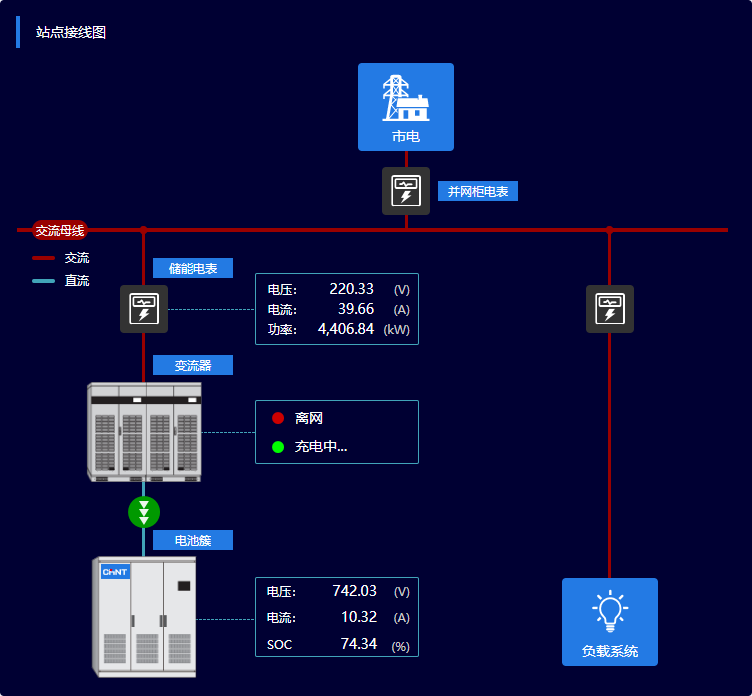
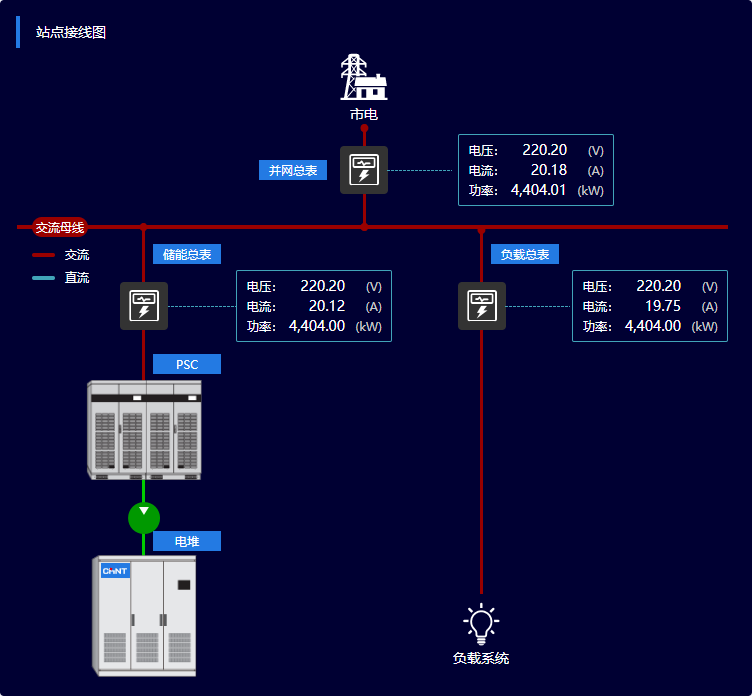
样式调整

diff --git a/src/pages/storage/summary/style.module.less b/src/pages/storage/summary/style.module.less
@@ -46,7 +46,7 @@
             border: 1px solid rgb(215, 215, 215);
             border-radius: 4px;
             .information{
-                margin-top: 26px;
+                margin-top: 16px;
                 display: flex;
                 align-items: center;
                 .siteImg{
@@ -129,8 +129,8 @@
                     justify-content: space-between;
                     flex-direction: column;
                     position: absolute;
-                    left: 255px;
-                    top: 273px;
+                    left: 235px;
+                    top: 270px;
                     padding: 6px 12px;
                     width: 164px;
                     height: 72px;
@@ -167,23 +167,35 @@
                     justify-content: space-between;
                     flex-direction: column;
                     position: absolute;
-                    left: 255px;
-                    top: 400px;
-                    padding: 6px 12px;
+                    right: 130px;
+                    top: 130px;
+                    padding: 4px 12px;
                     width: 164px;
-                    height: 64px;
+                    height: 80px;
                     border: 1px solid #41A4B9;
                     background-color: #003;
-                    .transItem{
-                        width: 100%;
+                    .meterData{
                         display: flex;
                         align-items: center;
-                        font-size: 14px;
-                        color: #fff;
-                        .transImg{
-                            width: 12px;
-                            height: 12px;
-                            margin-right: 12px;
+                        span{
+                            display: inline-block;
+                            text-align: right;
+                            height: 20px;
+                            line-height: 20px;
+                            font-size: 12px;
+                            color: #fff;
+                        }
+                        .dataName{
+                            width: 38px;
+                            text-align: left;
+                        }
+                        .dataValue{
+                            width: 67px;
+                            font-size: 14px;
+                        }
+                        .dataUnit{
+                            width: 32px;
+                            color: #c9c9c9;
                         }
                     }
                 }
@@ -193,8 +205,8 @@
                     justify-content: space-between;
                     flex-direction: column;
                     position: absolute;
-                    left: 255px;
-                    top: 577px;
+                    right: 18px;
+                    top: 270px;
                     padding: 4px 12px;
                     width: 164px;
                     height: 80px;
@@ -334,7 +346,7 @@
 
     .warningDetails {
         margin: 16px;
-        height: 133px;
+        max-height: 465px;
         overflow-y: auto;
 
         .warningItem {

diff --git a/src/pages/storage/summary/index.jsx b/src/pages/storage/summary/index.jsx
@@ -70,7 +70,7 @@ export default function Index() {
     querySite()
   }
   const getFromHeader = () => {
-    querySiteInfo(projectId, form.getFieldValue('areaId')).then(res => {
+    querySiteInfo(projectId, form.getFieldValue('areaId'), form.getFieldValue('siteId')).then(res => {
       if (res.success) {
         setCardData(res.data)
       } else {
@@ -226,7 +226,7 @@ export default function Index() {
             </Select>
           </Item>
           <div className={style.line}></div>
-          <Item name='siteId' label='' style={{ marginLeft: 16 }}>
+          <Item name='siteId' label='站点选择' style={{ marginLeft: 16 }}>
             <Select
               placeholder="请选择站点"
               size="middle"
@@ -262,13 +262,13 @@ export default function Index() {
               </div>
             </div>
           </CardItem>
-          <CardItem title='充放电统计' height='136px'>
+          {/* <CardItem title='充放电统计' height='136px'>
             <div className={style.stateItems}>
               <StateCard width={'156px'} title={'储能总充电量'} value={'500.00 kWh'} styles={{ backgroundColor: '#237ae4', color: '#fff' }}></StateCard>
               <StateCard width={'156px'} title={'储能总放电量'} value={'500.00 kWh'} styles={{ backgroundColor: '#237ae4', color: '#fff' }}></StateCard>
             </div>
-          </CardItem>
-          <CardItem title='最新告警' height='396px'>
+          </CardItem> */}
+          <CardItem title='最新告警' height='548px'>
             <span className={style.toWarning} onClick={() => toPage('alarmMessage', '告警信息')}>查看详情</span>
             <div className={style.warningDetails}>
               {warningData.map((item, index) => {
@@ -291,7 +291,7 @@ export default function Index() {
           <div className={style.bottom}>
             <div className={style.topology}>
               <img src={imgurl.zhanwei} className={style.zhanwei}></img>
-              {/* 储能电表 */}
+              {/* 储能总表 */}
               <div className={style.storageMeter}>
                 <div className={style.meterData}>
                   <span className={style.dataName}>电压:</span>
@@ -309,18 +309,25 @@ export default function Index() {
                   <span className={style.dataUnit}>(kW)</span>
                 </div>
               </div>
-              {/*交流器*/}
+              {/*并网总表器*/}
               <div className={style.transformer}>
-                <div className={style.transItem}>
-                  <img src={imgurl.error} className={style.transImg}></img>
-                  <span>{topologyData?.pcsType}</span>
+                <div className={style.meterData}>
+                  <span className={style.dataName}>电压:</span>
+                  <span className={style.dataValue}>{topologyData?.solarPointBaseInfo.v}</span>
+                  <span className={style.dataUnit}>(V)</span>
                 </div>
-                <div className={style.transItem}>
-                  <img src={imgurl.normal} className={style.transImg}></img>
-                  <span>{topologyData?.status + ' . . .'}</span>
+                <div className={style.meterData}>
+                  <span className={style.dataName}>电流:</span>
+                  <span className={style.dataValue}>{topologyData?.solarPointBaseInfo.i}</span>
+                  <span className={style.dataUnit}>(A)</span>
+                </div>
+                <div className={style.meterData}>
+                  <span className={style.dataName}>功率:</span>
+                  <span className={style.dataValue}>{topologyData?.lineInfo.p}</span>
+                  <span className={style.dataUnit}>(kW)</span>
                 </div>
               </div>
-              {/*电池簇*/}
+              {/*负载总表*/}
               <div className={style.batterys}>
                 <div className={style.meterData}>
                   <span className={style.dataName}>电压:</span>
@@ -333,9 +340,9 @@ export default function Index() {
                   <span className={style.dataUnit}>(A)</span>
                 </div>
                 <div className={style.meterData}>
-                  <span className={style.dataName}>SOC:</span>
-                  <span className={style.dataValue}>{topologyData?.solarPointBaseInfo.soc}</span>
-                  <span className={style.dataUnit}>(%)</span>
+                  <span className={style.dataName}>功率:</span>
+                  <span className={style.dataValue}>{topologyData?.lineInfo.p}</span>
+                  <span className={style.dataUnit}>(kW)</span>
                 </div>
               </div>
               <div className={style.transPlaceholder} onClick={() => toPage('PCSMonitor', 'PCS监控')}></div>

diff --git a/src/pages/storage/configure/storageDevice/devices.js b/src/pages/storage/configure/storageDevice/devices.js
@@ -188,17 +188,6 @@ export default function Index(props) {
       if (res.success) {
         if (res.data) {
           // setSubTable(res.data.configed)
-          res.data.configed.map((item) => {
-            if(item.type == 1){
-              state.mainTable = item
-            }
-            if(item.type == 2){
-              state.loadTable = item
-            }
-            if(item.type == 3){
-              state.gridTable = item
-            }
-          })
           setUnknownTable(res.data.noConfiged)
         } else {
           // setSubTable([])
@@ -206,6 +195,18 @@ export default function Index(props) {
         }
       } else {
         message.error(res.errMsg)
+      }
+    })
+    tableData.map(item => {
+      
+      if(item.type == 1){
+        state.mainTable = [item]
+      }
+      if(item.type == 2){
+        state.loadTable = [item]
+      }
+      if(item.type == 3){
+        state.gridTable = [item]
       }
     })
     setTransTag('open');

diff --git a/src/pages/storage/storageMonitor/mainPage.js b/src/pages/storage/storageMonitor/mainPage.js
@@ -107,9 +107,9 @@ export default function Index(props) {
     return <div className={style.customBattery}>
       <div className={style.batteryTop}></div>
       <div className={style.batteryBody}>
-        <div className={style.progress} style={{ height: props.value, backgroundColor: props.color}}></div>
+        <div className={style.progress} style={{ height: (props.value / 10) + '%', backgroundColor: props.color}}></div>
         <span>{props.name}</span>
-        <span>{props.value}</span>
+        <span>{props.value + '‰'}</span>
       </div>
     </div>
   }
@@ -173,9 +173,9 @@ export default function Index(props) {
     querySOCTrends(projectId, stackId).then(res => {
       if(res.success){
         if(res.data){
-          config( socRef.current, '#1ba41b','SOC (%)', res.data)
+          config( socRef.current, '#1ba41b','SOC (‰)', res.data)
         }else{
-          config( socRef.current, '#1ba41b','SOC (%)', {x:[],y:[]})
+          config( socRef.current, '#1ba41b','SOC (‰)', {x:[],y:[]})
         }
       }else{
         message.error(res.errMsg)
@@ -263,7 +263,7 @@ export default function Index(props) {
       <div className={style.bmsContent}>
         <div className={style.left}>
           <div className={style.leftCard}>
-            <div className={style.cardTitle}>SOC (%)</div>
+            <div className={style.cardTitle}>SOC (‰)</div>
             <div className={style.cardChart} id='totalSOC' ref={socRef}></div>
           </div>
           <div className={style.leftCard}>
@@ -280,10 +280,10 @@ export default function Index(props) {
           <img src={topology} className={style.zhanwei}></img>
           <div className={style.middletitle}>电池堆状态</div>
           <div style={{position:'absolute', left: 255, top: 91}}>
-            <CustomBattery name={'SOC'} value={ bmsInfo.soc ? bmsInfo.soc  + '%' :'0.00%' } color="#0c6"></CustomBattery>
+            <CustomBattery name={'SOC'} value={ bmsInfo.soc ? bmsInfo.soc  + '' :'0.00' } color="#0c6"></CustomBattery>
           </div> 
           <div style={{position:'absolute', left: 311, top: 91}}>
-            <CustomBattery name={'SOH'} value={bmsInfo.soh ? bmsInfo.soh  + '%' :'0.00%'} color="#06c"></CustomBattery>
+            <CustomBattery name={'SOH'} value={bmsInfo.soh ? bmsInfo.soh  + '' :'0.00'} color="#06c"></CustomBattery>
           </div>
           <div className={style.deviceImg}>
             <div className={style.deviceName}>{bmsInfo.batteryStackName}</div>

diff --git a/src/pages/storage/alternatorMonitor/index.jsx b/src/pages/storage/alternatorMonitor/index.jsx
@@ -279,7 +279,7 @@ export default function Index() {
             </Select>
           </Item>
           <div className={style.line}></div>
-          <Item name='siteId' label='' style={{marginLeft:16}}>
+          <Item name='siteId' label='站点选择' style={{marginLeft:16}}>
             <Select
               placeholder="请选择站点"
               size="middle"
@@ -358,7 +358,7 @@ export default function Index() {
           </div>
           <div className={style.chartCard}>
             <div className={style.chartTitle}>SOC</div>
-            <SocChart lineData={socData} Unit='SOC(%)' color={'#ff6701'}></SocChart>
+            <SocChart lineData={socData} Unit='SOC(‰)' color={'#ff6701'}></SocChart>
           </div>
           <div className={style.tableList}>
             <Table size='small' bordered dataSource={state.ACData} columns={AcClomns} rowKey='name' pagination={false} />

diff --git a/src/axios/api.js b/src/axios/api.js
@@ -1578,7 +1578,7 @@ export class EnergyPublicRuntime {
 }
 //储能概述
 export class SiteSummaryRuntime {
-  static querySiteInfo = (projectId, areaId) => server.get(`Storage/SiteSummaryRuntime/QuerySiteInfo?projectId=${projectId}&areaId=${areaId}`)
+  static querySiteInfo = (projectId, areaId, siteId) => server.get(`Storage/SiteSummaryRuntime/QuerySiteInfo?projectId=${projectId}&areaId=${areaId}&siteId=${siteId}`)
   static queryStorageIncome = (projectId, areaId) => server.get(`Storage/SiteSummaryRuntime/QueryStorageIncome?projectId=${projectId}&areaId=${areaId}`)
   static queryStorageWarning = (projectId, areaId) => server.get(`Storage/SiteSummaryRuntime/QueryStorageWarning?projectId=${projectId}&areaId=${areaId}`)
   static queryTopologyDiagramInfo = (projectId, areaId) => server.get(`Storage/SiteSummaryRuntime/QueryTopologyDiagramInfo?projectId=${projectId}&areaId=${areaId}`)

diff --git a/src/pages/storage/summary/lineChart.js b/src/pages/storage/summary/lineChart.js
@@ -8,7 +8,7 @@ export default function Index(props){
     echarts.dispose(lineRef.current)
     let lineChart = echarts.init(lineRef.current)
     lineChart.setOption({
-      color:['#5fba5c', '#4d77ff', '#9951fe'],
+      color:['#d0ddf7', '#d0efe3'],
       tooltip: {
         trigger: 'axis',
         axisPointer: {